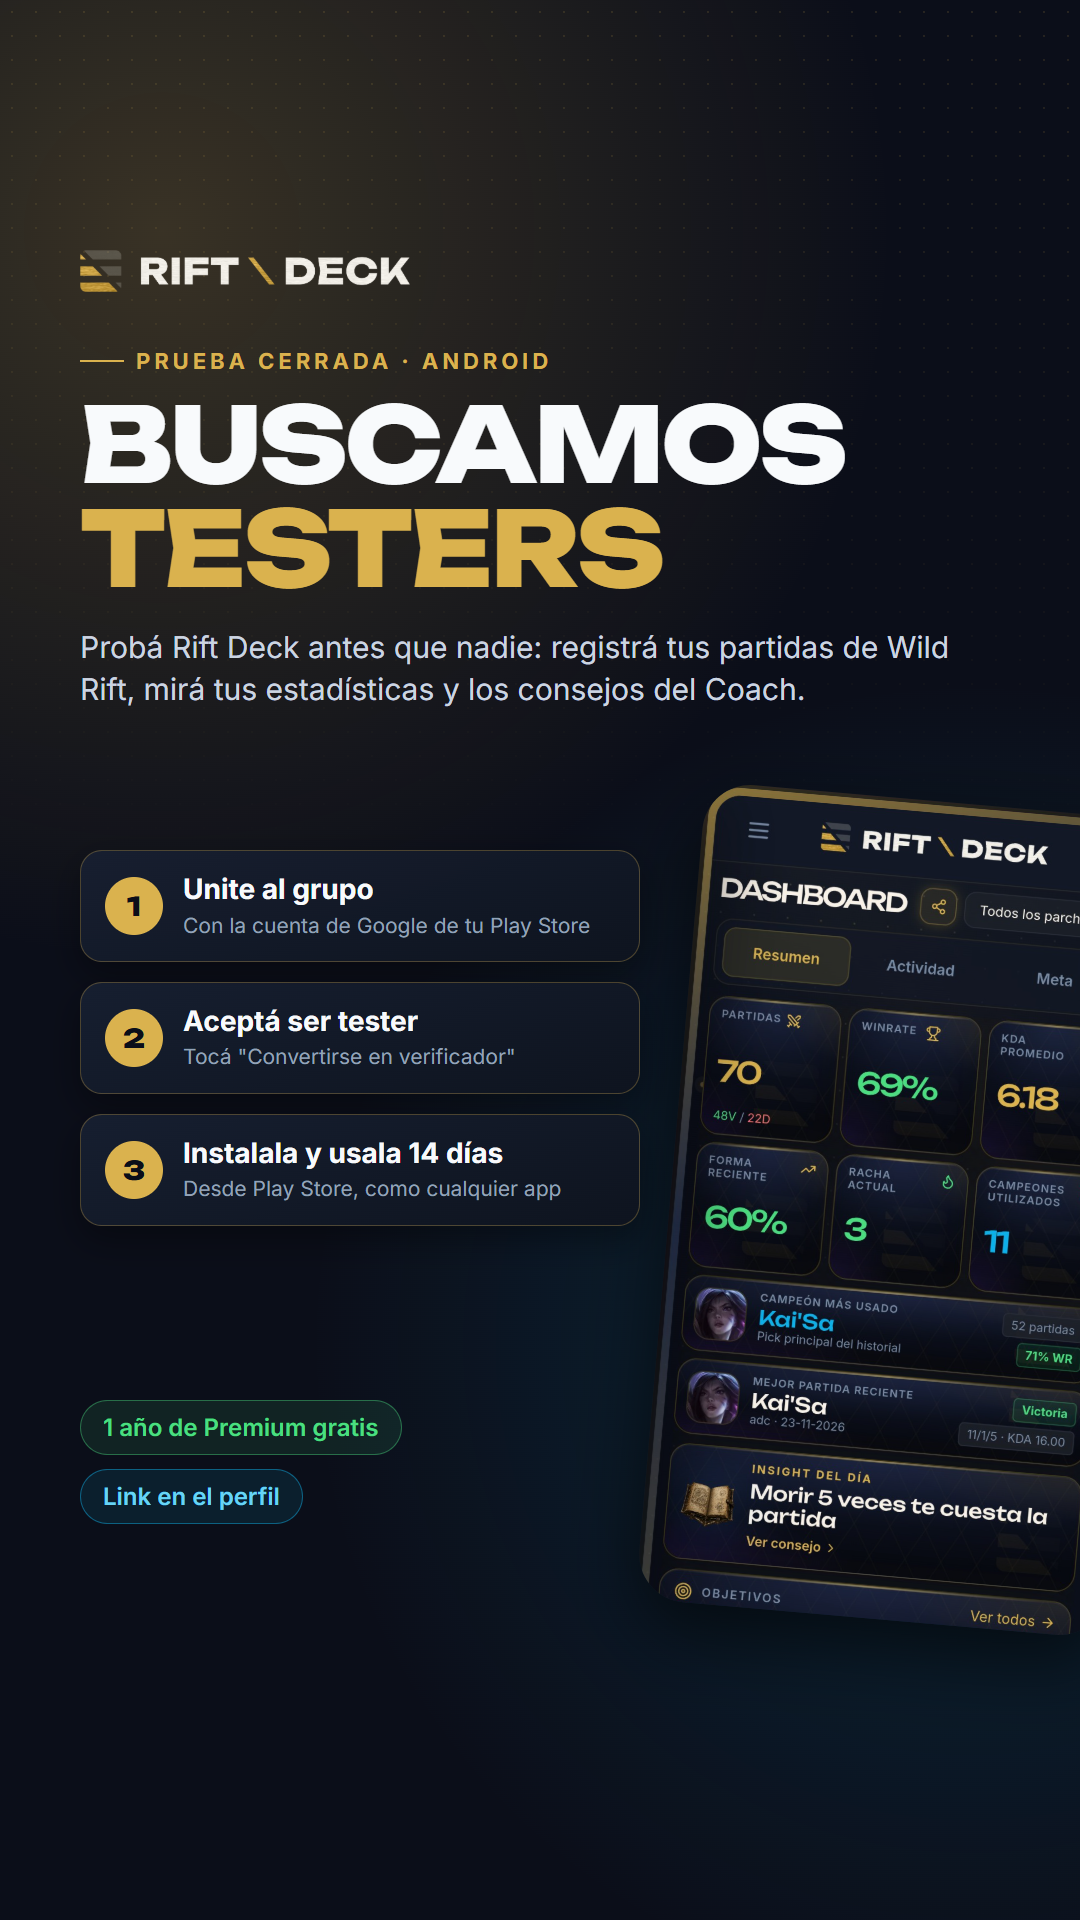
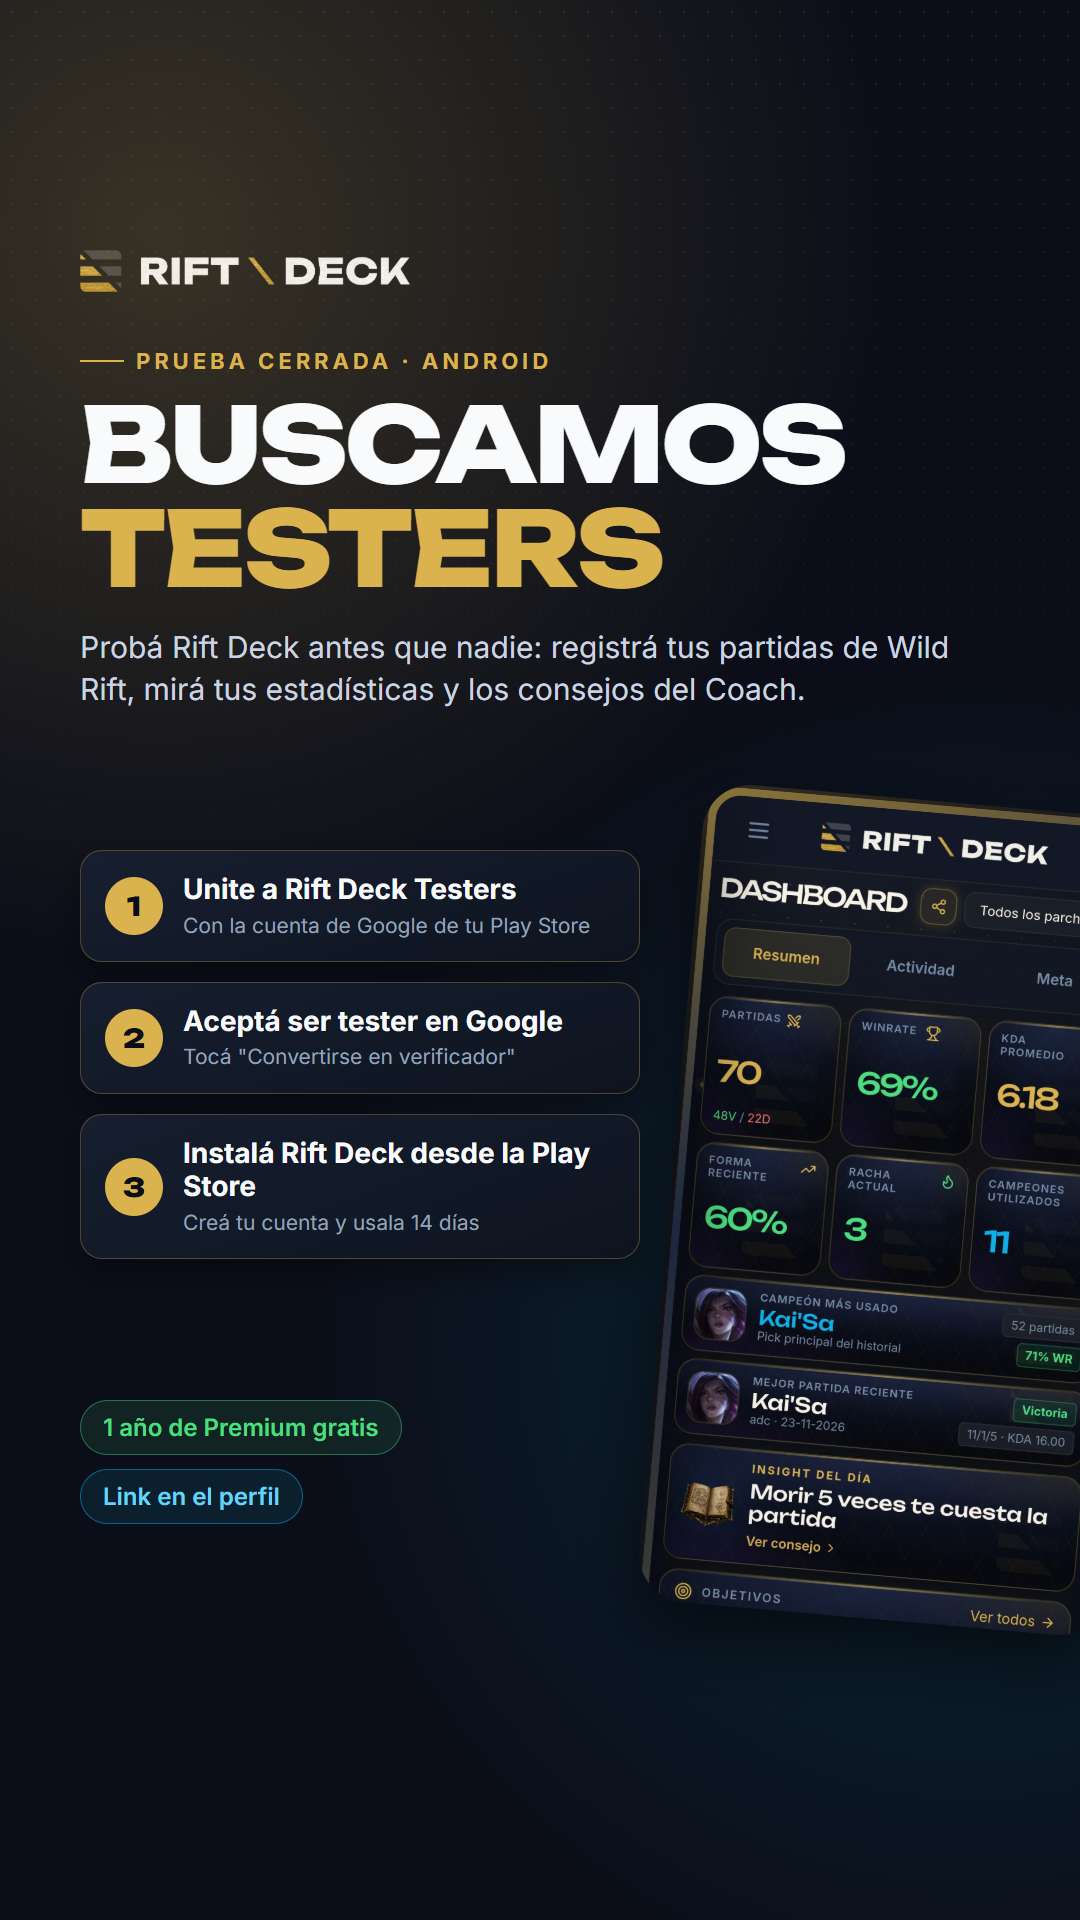
Testers: imágenes de invitación con los nuevos pasos, formato 4x5 y piezas promocionales

Changed region(s): [[0.0917, 0.5938, 0.55, 0.6562], [0.2444, 0.4375, 0.4889, 0.4688], [0.3972, 0.5312, 0.5194, 0.5625]]

diff --git a/android/store/testers-promo.css b/android/store/testers-promo.css
@@ -1,0 +1,98 @@
+/* Estilos compartidos de las imágenes "Buscamos testers" (cuadrada, 4:5 e historia).
+   Cada HTML fija el tamaño del lienzo y ajusta posiciones con variables. */
+@font-face { font-family: 'Unbounded'; src: url('../../node_modules/@fontsource-variable/unbounded/files/unbounded-latin-wght-normal.woff2') format('woff2'); font-weight: 200 900; }
+
+:root {
+  --bg: hsl(226 45% 6%);
+  --gold: hsl(43 65% 58%);
+  --gold-deep: hsl(40 70% 48%);
+  --pad: 106px;            /* margen izquierdo del contenido */
+}
+* { box-sizing: border-box; margin: 0; }
+html, body { width: var(--w); height: var(--h); overflow: hidden; }
+/* Fondo: el mismo de la tarjeta de compartir de la app (src/features/share/ShareCard.jsx,
+   paleta por defecto, sin campeón): destellos dorado / violeta / celeste, grilla
+   triangular y rayos desde arriba. */
+body {
+  position: relative;
+  background:
+    radial-gradient(60% 40% at 100% 0%, rgb(212 175 55 / .12) 0%, rgb(212 175 55 / 0) 70%),
+    radial-gradient(70% 45% at 0% 100%, rgb(124 58 237 / .28) 0%, rgb(124 58 237 / 0) 70%),
+    radial-gradient(50% 30% at 0% 35%, rgb(56 189 248 / .12) 0%, rgb(56 189 248 / 0) 70%),
+    radial-gradient(120% 80% at 50% 0%, #1D2540 0%, #0B0F1A 60%, #07090F 100%);
+  color: #f8fafc;
+  font-family: 'Unbounded', sans-serif;
+}
+
+/* Rayos desde arriba */
+.rays {
+  position: absolute; inset: 0;
+  background: conic-gradient(from 180deg at 50% -10%, transparent 0deg, rgb(245 215 110 / .06) 8deg, transparent 16deg, transparent 28deg, rgb(245 215 110 / .05) 34deg, transparent 40deg, transparent 320deg, rgb(245 215 110 / .05) 326deg, transparent 332deg, transparent 344deg, rgb(245 215 110 / .06) 350deg, transparent 358deg);
+}
+/* Grilla triangular */
+.diamonds {
+  position: absolute; inset: 0; opacity: .55;
+  background:
+    repeating-linear-gradient(60deg, rgb(212 175 55 / .05) 0 2px, transparent 2px 36px),
+    repeating-linear-gradient(-60deg, rgb(212 175 55 / .05) 0 2px, transparent 2px 36px);
+}
+
+/* Marco dorado con esquinas, como una carta */
+.frame { position: absolute; inset: 20px; border: 2px solid rgb(212 175 55 / .32); border-radius: 36px; box-shadow: inset 0 0 60px rgb(212 175 55 / .08); }
+.corner { position: absolute; width: 84px; height: 84px; border: 6px solid #D4AF37; filter: drop-shadow(0 0 6px rgb(212 175 55 / .3)); }
+.corner.tl { left: 20px; top: 20px; border-right: 0; border-bottom: 0; border-top-left-radius: 36px; }
+.corner.tr { right: 20px; top: 20px; border-left: 0; border-bottom: 0; border-top-right-radius: 36px; }
+.corner.bl { left: 20px; bottom: 20px; border-right: 0; border-top: 0; border-bottom-left-radius: 36px; }
+.corner.br { right: 20px; bottom: 20px; border-left: 0; border-top: 0; border-bottom-right-radius: 36px; }
+
+/* Logo de Wild Rift arriba (si existe wildrift-logo.png); si no, un rótulo de texto */
+.top { position: absolute; left: 0; right: 0; top: var(--top-y); display: flex; justify-content: center; }
+.top img { height: var(--wr-h); }
+.top .tag {
+  display: none; align-items: center; gap: 14px;
+  font-size: 18px; font-weight: 600; letter-spacing: .24em; text-transform: uppercase; color: var(--gold);
+}
+.top .tag::before, .top .tag::after { content: ''; width: 44px; height: 2px; background: var(--gold); opacity: .7; }
+.top.no-logo img { display: none; }
+.top.no-logo .tag { display: inline-flex; }
+
+/* Columna de texto */
+.copy { position: absolute; left: var(--pad); top: var(--copy-y); width: var(--copy-w); }
+h1 {
+  font-weight: 800; font-size: var(--h1); line-height: 1; letter-spacing: -0.01em; text-transform: uppercase;
+}
+h1 span {
+  display: block; margin-top: .08em;
+  background: linear-gradient(180deg, hsl(45 80% 66%), var(--gold-deep));
+  -webkit-background-clip: text; background-clip: text; color: transparent;
+}
+p.sub { margin-top: var(--sub-gap); font-size: var(--sub); font-weight: 400; line-height: 1.32; color: #e5e9f0; }
+
+.steps { margin-top: var(--steps-gap); width: var(--step-w); display: flex; flex-direction: column; gap: var(--step-gap); }
+.step {
+  display: flex; align-items: center; gap: 22px; height: var(--step-h); padding: 0 26px 0 20px; border-radius: 16px;
+  background: linear-gradient(160deg, hsl(224 40% 13% / .96), hsl(226 45% 8% / .96));
+  border: 1px solid hsl(220 30% 60% / .22);
+  box-shadow: 0 10px 30px rgb(0 0 0 / .35);
+}
+.num {
+  flex: none; width: var(--num); height: var(--num); border-radius: 50%; display: grid; place-items: center;
+  font-weight: 600; font-size: calc(var(--num) * .5); line-height: 1; color: hsl(226 45% 8%);
+  background: linear-gradient(180deg, hsl(45 80% 64%), var(--gold-deep));
+}
+.step span { font-size: var(--step-font); font-weight: 500; white-space: nowrap; }
+
+/* Teléfono con la captura del dashboard, inclinado en perspectiva */
+.phone-wrap { position: absolute; left: var(--phone-x); top: var(--phone-y); perspective: 1800px; }
+.phone {
+  width: var(--phone-w); aspect-ratio: 786 / 1662; padding: 14px; border-radius: 54px;
+  background: linear-gradient(150deg, hsl(222 20% 26%), hsl(225 30% 9%) 40%, hsl(222 20% 18%));
+  box-shadow: 0 40px 90px rgb(0 0 0 / .7), inset 0 0 0 2px hsl(220 20% 35% / .6);
+  transform: rotateY(-22deg) rotateX(6deg) rotateZ(5deg);
+  transform-origin: left center;
+}
+.phone img { display: block; width: 100%; height: 100%; border-radius: 42px; }
+
+/* Logo de Rift Deck abajo, centrado */
+.brand { position: absolute; left: 0; right: 0; bottom: var(--brand-y); display: flex; justify-content: center; }
+.brand img { width: var(--brand-w); }

diff --git a/android/store/testers-invite-4x5.html b/android/store/testers-invite-4x5.html
@@ -1,0 +1,103 @@
+<!doctype html>
+<html lang="es">
+<head>
+<meta charset="utf-8">
+<!-- Imagen para invitar testers, formato vertical del feed de Instagram (1080×1350). Se renderiza a PNG con Playwright. -->
+<style>
+  @font-face { font-family: 'Unbounded'; src: url('../../node_modules/@fontsource-variable/unbounded/files/unbounded-latin-wght-normal.woff2') format('woff2'); font-weight: 200 900; }
+  @font-face { font-family: 'Inter'; src: url('../../node_modules/@fontsource-variable/inter/files/inter-latin-wght-normal.woff2') format('woff2'); font-weight: 100 900; }
+  :root {
+    --bg: hsl(224 41% 7%);
+    --gold: hsl(43 65% 58%);
+    --cyan: hsl(195 90% 48%);
+    --green: #4ade80;
+    --muted: #94a3b8;
+  }
+  * { box-sizing: border-box; margin: 0; }
+  html, body { width: 1080px; height: 1350px; overflow: hidden; }
+  body {
+    position: relative;
+    background:
+      radial-gradient(circle at 12% 8%, hsl(43 65% 58% / .20), transparent 42%),
+      radial-gradient(circle at 92% 92%, hsl(195 90% 48% / .16), transparent 45%),
+      var(--bg);
+    color: #f8fafc;
+    font-family: 'Inter', sans-serif;
+  }
+  .dots {
+    position: absolute; inset: 0;
+    background-image: radial-gradient(hsl(43 65% 58% / .13) 1px, transparent 1.3px);
+    background-size: 24px 24px;
+    mask-image: linear-gradient(180deg, #000 0%, transparent 70%);
+  }
+
+  .left { position: absolute; left: 72px; top: 120px; width: 590px; }
+  .logo { width: 320px; }
+  .kicker {
+    margin-top: 72px; display: inline-flex; align-items: center; gap: 10px;
+    font-size: 19px; font-weight: 700; letter-spacing: .18em; text-transform: uppercase; color: var(--gold);
+  }
+  .kicker::before { content: ''; width: 36px; height: 2px; background: var(--gold); }
+  h1 {
+    margin-top: 18px;
+    font-family: 'Unbounded', sans-serif; font-weight: 800; font-size: 82px; line-height: 1.02;
+    text-transform: uppercase; letter-spacing: -0.03em;
+  }
+  h1 span { color: var(--gold); display: block; }
+  p.sub { margin-top: 30px; font-size: 27px; line-height: 1.45; color: #cbd5e1; }
+
+  .steps { margin-top: 70px; display: flex; flex-direction: column; gap: 22px; }
+  .step {
+    display: flex; align-items: center; gap: 20px; padding: 24px 24px; border-radius: 20px;
+    background: linear-gradient(160deg, hsl(222 36% 14% / .95), hsl(222 36% 9% / .95));
+    border: 1px solid hsl(43 65% 58% / .28);
+  }
+  .num {
+    flex: none; width: 52px; height: 52px; border-radius: 50%; display: grid; place-items: center;
+    font-family: 'Unbounded', sans-serif; font-weight: 800; font-size: 20px;
+    color: var(--bg); background: var(--gold);
+  }
+  .step b { display: block; font-size: 23px; font-weight: 700; }
+  .step small { display: block; margin-top: 4px; font-size: 18px; color: var(--muted); }
+
+  .chips { position: absolute; left: 72px; bottom: 80px; display: flex; gap: 12px; }
+  .chip {
+    font-size: 21px; font-weight: 600; border-radius: 999px; padding: 12px 22px;
+    border: 1px solid hsl(43 65% 58% / .4); background: hsl(43 65% 58% / .1); color: var(--gold);
+  }
+  .chip.green { color: var(--green); border-color: rgb(74 222 128 / .4); background: rgb(74 222 128 / .1); }
+  .chip.cyan { color: #67d4f5; border-color: hsl(195 90% 48% / .45); background: hsl(195 90% 48% / .1); }
+
+  /* Captura de la app: la parte del teléfono de la captura de la ficha. */
+  .phone {
+    position: absolute; right: -60px; top: 220px; width: 440px; height: 884px;
+    border-radius: 44px; overflow: hidden; transform: rotate(4deg);
+    box-shadow: 0 30px 70px rgb(0 0 0 / .6);
+  }
+  .phone img { position: absolute; width: 648px; left: -106px; top: -241px; }
+</style>
+</head>
+<body>
+  <div class="dots"></div>
+
+  <div class="phone"><img src="screenshots/01-dashboard.jpg" alt=""></div>
+
+  <div class="left">
+    <img class="logo" src="../../src/assets/riftdeck-logo-horizontal.png" alt="">
+    <div class="kicker">Prueba cerrada · Android</div>
+    <h1>Buscamos<span>testers</span></h1>
+    <p class="sub">Probá Rift Deck antes que nadie: registrá tus partidas de Wild Rift, mirá tus estadísticas y los consejos del Coach.</p>
+
+    <div class="steps">
+      <div class="step"><div class="num">1</div><div><b>Unite a Rift Deck Testers</b><small>Con la cuenta de Google de tu Play Store</small></div></div>
+      <div class="step"><div class="num">2</div><div><b>Aceptá ser tester en Google</b><small>Tocá "Convertirse en verificador"</small></div></div>
+      <div class="step"><div class="num">3</div><div><b>Instalá Rift Deck desde la Play Store</b><small>Creá tu cuenta y usala 14 días</small></div></div>
+    </div>
+  </div>
+
+  <div class="chips">
+    <span class="chip green">1 año de Premium gratis</span>
+    <span class="chip cyan">Link en el perfil</span>
+  </div>
+</body>
+</html>

diff --git a/android/store/testers-promo-story.html b/android/store/testers-promo-story.html
@@ -1,0 +1,34 @@
+<!doctype html>
+<html lang="es">
+<head>
+<meta charset="utf-8">
+<!-- Imagen "Buscamos testers", historia de Instagram (1080×1920). Todo el contenido queda entre y=250 y y=1670 (zona segura de las historias). Se renderiza a PNG con Playwright. Estilos en testers-promo.css. -->
+<link rel="stylesheet" href="testers-promo.css">
+<style>
+  :root { --w: 1080px; --h: 1920px; --top-y: 150px; --wr-h: 150px; --copy-y: 450px; --copy-w: 870px; --h1: 106px; --sub-gap: 40px; --sub: 33px; --steps-gap: 60px; --step-w: 590px; --step-gap: 26px; --step-h: 92px; --num: 50px; --step-font: 22px; --phone-x: 712px; --phone-y: 935px; --phone-w: 318px; --brand-y: 260px; --brand-w: 290px; }
+  .brand { justify-content: flex-start; left: var(--pad); }
+</style>
+</head>
+<body>
+  <div class="rays"></div>
+  <div class="diamonds"></div>
+  <div class="frame"></div>
+  <div class="corner tl"></div><div class="corner tr"></div><div class="corner bl"></div><div class="corner br"></div>
+
+  <!-- Espacio libre arriba para pegar el logo de Wild Rift a mano. -->
+
+  <div class="phone-wrap"><div class="phone"><img src="screenshots/dashboard-screen.png" alt=""></div></div>
+
+  <div class="copy">
+    <h1>Buscamos<span>testers</span></h1>
+    <p class="sub">Prueba Rift Deck antes que nadie. Registra tus partidas de Wild Rift, mira tus estadísticas, plantéate objetivos, recibe builds recomendadas y mucho más.</p>
+    <div class="steps">
+      <div class="step"><div class="num">1</div><span>Únete a Rift Deck Testers</span></div>
+      <div class="step"><div class="num">2</div><span>Acepta ser tester en Google</span></div>
+      <div class="step"><div class="num">3</div><span>Instala Rift Deck desde Play Store</span></div>
+    </div>
+  </div>
+
+  <div class="brand"><img src="../../src/assets/riftdeck-logo.png" alt=""></div>
+</body>
+</html>

diff --git a/android/store/testers-promo-4x5.html b/android/store/testers-promo-4x5.html
@@ -1,0 +1,33 @@
+<!doctype html>
+<html lang="es">
+<head>
+<meta charset="utf-8">
+<!-- Imagen "Buscamos testers", feed vertical de Instagram (1080×1350). Se renderiza a PNG con Playwright. Estilos en testers-promo.css. -->
+<link rel="stylesheet" href="testers-promo.css">
+<style>
+  :root { --w: 1080px; --h: 1350px; --top-y: 62px; --wr-h: 120px; --copy-y: 262px; --copy-w: 600px; --h1: 82px; --sub-gap: 44px; --sub: 28px; --steps-gap: 64px; --step-w: 530px; --step-gap: 26px; --step-h: 82px; --num: 44px; --step-font: 20px; --phone-x: 742px; --phone-y: 250px; --phone-w: 400px; --brand-y: 62px; --brand-w: 300px; }
+</style>
+</head>
+<body>
+  <div class="rays"></div>
+  <div class="diamonds"></div>
+  <div class="frame"></div>
+  <div class="corner tl"></div><div class="corner tr"></div><div class="corner bl"></div><div class="corner br"></div>
+
+  <!-- Espacio libre arriba para pegar el logo de Wild Rift a mano. -->
+
+  <div class="phone-wrap"><div class="phone"><img src="screenshots/dashboard-screen.png" alt=""></div></div>
+
+  <div class="copy">
+    <h1>Buscamos<span>testers</span></h1>
+    <p class="sub">Prueba Rift Deck antes que nadie. Registra tus partidas de Wild Rift, mira tus estadísticas, plantéate objetivos, recibe builds recomendadas y mucho más.</p>
+    <div class="steps">
+      <div class="step"><div class="num">1</div><span>Únete a Rift Deck Testers</span></div>
+      <div class="step"><div class="num">2</div><span>Acepta ser tester en Google</span></div>
+      <div class="step"><div class="num">3</div><span>Instala Rift Deck desde Play Store</span></div>
+    </div>
+  </div>
+
+  <div class="brand"><img src="../../src/assets/riftdeck-logo.png" alt=""></div>
+</body>
+</html>

diff --git a/android/store/testers-promo.html b/android/store/testers-promo.html
@@ -1,0 +1,33 @@
+<!doctype html>
+<html lang="es">
+<head>
+<meta charset="utf-8">
+<!-- Imagen "Buscamos testers", cuadrada (1080×1080). Se renderiza a PNG con Playwright. Estilos en testers-promo.css. -->
+<link rel="stylesheet" href="testers-promo.css">
+<style>
+  :root { --w: 1080px; --h: 1080px; --top-y: 52px; --wr-h: 96px; --copy-y: 196px; --copy-w: 560px; --h1: 80px; --sub-gap: 30px; --sub: 22px; --steps-gap: 40px; --step-w: 470px; --step-gap: 18px; --step-h: 70px; --num: 40px; --step-font: 18px; --phone-x: 690px; --phone-y: 190px; --phone-w: 360px; --brand-y: 50px; --brand-w: 210px; }
+</style>
+</head>
+<body>
+  <div class="rays"></div>
+  <div class="diamonds"></div>
+  <div class="frame"></div>
+  <div class="corner tl"></div><div class="corner tr"></div><div class="corner bl"></div><div class="corner br"></div>
+
+  <!-- Espacio libre arriba para pegar el logo de Wild Rift a mano. -->
+
+  <div class="phone-wrap"><div class="phone"><img src="screenshots/dashboard-screen.png" alt=""></div></div>
+
+  <div class="copy">
+    <h1>Buscamos<span>testers</span></h1>
+    <p class="sub">Prueba Rift Deck antes que nadie. Registra tus partidas de Wild Rift, mira tus estadísticas, plantéate objetivos, recibe builds recomendadas y mucho más.</p>
+    <div class="steps">
+      <div class="step"><div class="num">1</div><span>Únete a Rift Deck Testers</span></div>
+      <div class="step"><div class="num">2</div><span>Acepta ser tester en Google</span></div>
+      <div class="step"><div class="num">3</div><span>Instala Rift Deck desde Play Store</span></div>
+    </div>
+  </div>
+
+  <div class="brand"><img src="../../src/assets/riftdeck-logo.png" alt=""></div>
+</body>
+</html>

diff --git a/android/store/testers-invite.html b/android/store/testers-invite.html
@@ -89,9 +89,9 @@
     <p class="sub">Probá Rift Deck antes que nadie: registrá tus partidas de Wild Rift, mirá tus estadísticas y los consejos del Coach.</p>
 
     <div class="steps">
-      <div class="step"><div class="num">1</div><div><b>Unite al grupo</b><small>Con la cuenta de Google de tu Play Store</small></div></div>
-      <div class="step"><div class="num">2</div><div><b>Aceptá ser tester</b><small>Tocá "Convertirse en verificador"</small></div></div>
-      <div class="step"><div class="num">3</div><div><b>Instalala y usala 14 días</b><small>Desde Play Store, como cualquier app</small></div></div>
+      <div class="step"><div class="num">1</div><div><b>Unite a Rift Deck Testers</b><small>Con la cuenta de Google de tu Play Store</small></div></div>
+      <div class="step"><div class="num">2</div><div><b>Aceptá ser tester en Google</b><small>Tocá "Convertirse en verificador"</small></div></div>
+      <div class="step"><div class="num">3</div><div><b>Instalá Rift Deck desde la Play Store</b><small>Creá tu cuenta y usala 14 días</small></div></div>
     </div>
   </div>
 

diff --git a/android/store/testers-invite-story.html b/android/store/testers-invite-story.html
@@ -92,9 +92,9 @@
   <div class="phone"><img src="screenshots/01-dashboard.jpg" alt=""></div>
 
   <div class="steps">
-    <div class="step"><div class="num">1</div><div><b>Unite al grupo</b><small>Con la cuenta de Google de tu Play Store</small></div></div>
-    <div class="step"><div class="num">2</div><div><b>Aceptá ser tester</b><small>Tocá "Convertirse en verificador"</small></div></div>
-    <div class="step"><div class="num">3</div><div><b>Instalala y usala 14 días</b><small>Desde Play Store, como cualquier app</small></div></div>
+    <div class="step"><div class="num">1</div><div><b>Unite a Rift Deck Testers</b><small>Con la cuenta de Google de tu Play Store</small></div></div>
+    <div class="step"><div class="num">2</div><div><b>Aceptá ser tester en Google</b><small>Tocá "Convertirse en verificador"</small></div></div>
+    <div class="step"><div class="num">3</div><div><b>Instalá Rift Deck desde la Play Store</b><small>Creá tu cuenta y usala 14 días</small></div></div>
   </div>
 
   <div class="chips">
